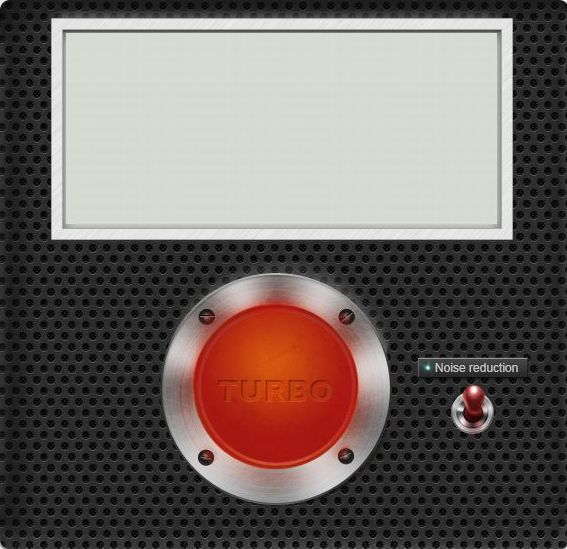
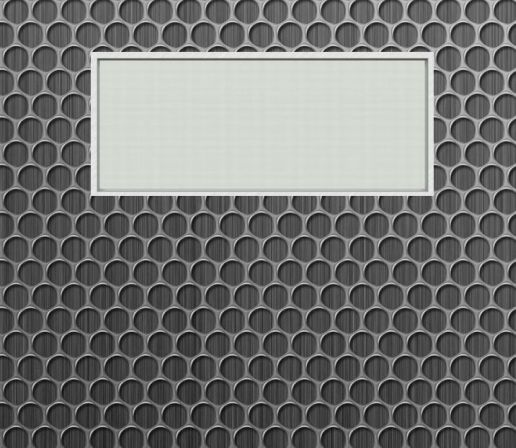
turbobutton: add new pictures (from free textures banks) and resize a bit

diff --git a/TurboButton/turbobutton.cpp b/TurboButton/turbobutton.cpp
@@ -15,7 +15,7 @@
 
 TurboButton::TurboButton(QDialog *parent)
      : QDialog(parent, Qt::FramelessWindowHint)
-     //: QDialog(parent)
+     //:QDialog(parent)
      , nCounter(0)
      , radioButtonsTime(0) // 0 - minutes, 1 - seconds
      , radioButtonsSound(0) //
@@ -55,18 +55,20 @@ void TurboButton::initTimerBoxes()
     txtRemain->setAlignment(Qt::AlignCenter);
     txtRemain->setFont(QFont(m_FontName, 80));
     txtRemain->setGeometry(QRect(90, 260, 300, 120));
-    txtRemain->move(140, 75);
+    txtRemain->move(115, 65);
+    txtRemain->setStyleSheet(
+        "color: black;"
+        );
 }
 
 void TurboButton::initButtons()
 {
     btnStart = new QPushButton(this);
     btnStart->setStyleSheet(
-        "background: transparent;"
+        "background: transparent; border-image: url(://Resources/Button_Restart.png);"
         );
      btnStart->setGeometry(QRect(90, 260, 180, 180));
-    // btnStart->setGeometry(QRect(90, 260, 18, 18));
-    btnStart->move(210, 310);
+    btnStart->move(175, 250);
   
     btnQuit = new QPushButton(STR_BTN_QUIT);
     btnQuit->setMinimumSize(INT_BTN_W, INT_BTN_H);
@@ -138,7 +140,7 @@ void TurboButton::tuneMainWindow()
     setMainWindowTitle("");    
     picOn.load("://Resources/TurboButton01.jpg");
     // picOn.load(":/MainViewOFF");
-    picOff.load("://Resources/TurboButton02.jpg");    
+    picOff.load("://Resources/TurboButton01.jpg");    
     // pic.load("Resources/TurboButton01.png");
     // setStyleSheet("background-image: url(:/Resources/TurboButton01.png)");
 }
@@ -157,6 +159,9 @@ void TurboButton::setConnections()
 
 void TurboButton::onStart()
 {    
+    btnStart->setStyleSheet(
+        "background: transparent; border-image: url(://Resources/Button_Shutdown.png);"
+        );
     startTimer();
     updateRemainTxt();
     btnStart->setEnabled(false);
@@ -203,6 +208,9 @@ void TurboButton::decrementCounter()
         btnStart->setEnabled(true);
         raiseAlarm();
         isRun = false;
+        btnStart->setStyleSheet(
+        "background: transparent; border-image: url(://Resources/Button_Restart.png);"
+        );
         this->update();
     }
     updateRemainTxt();
